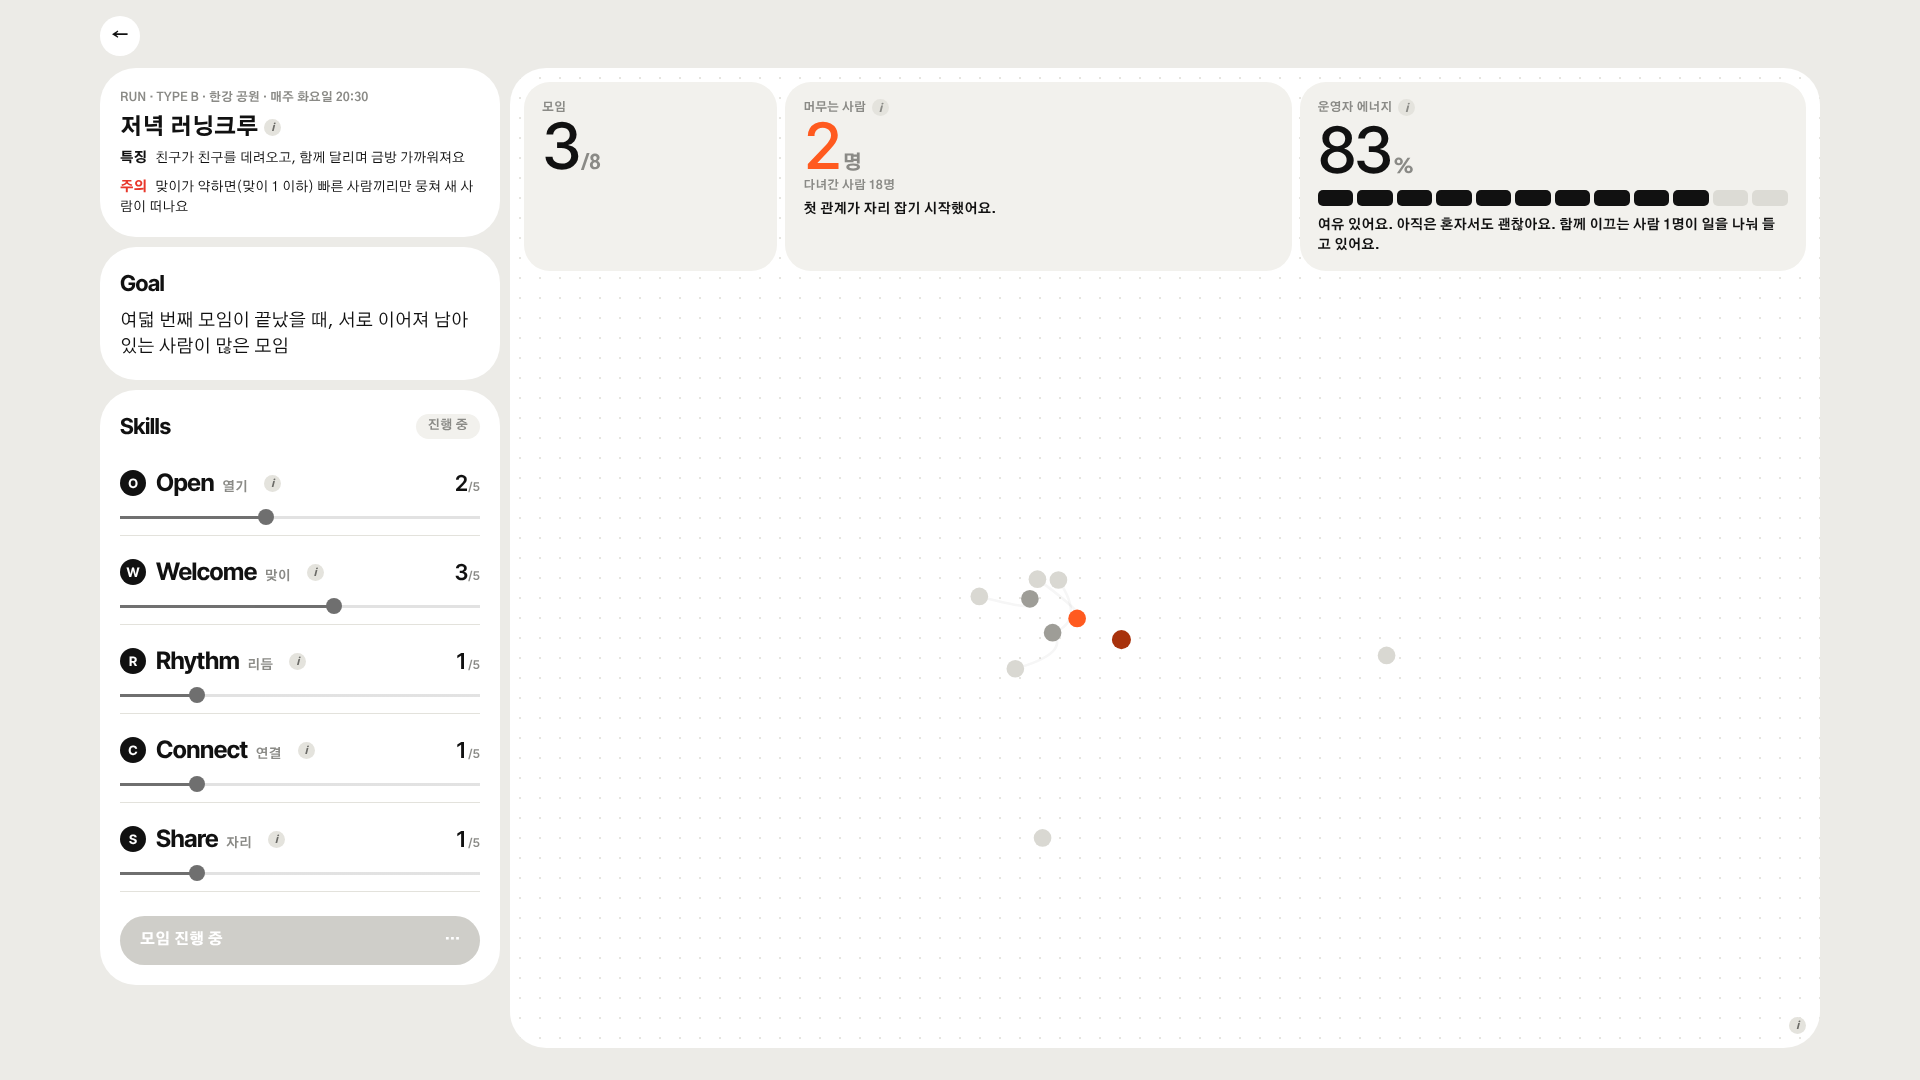
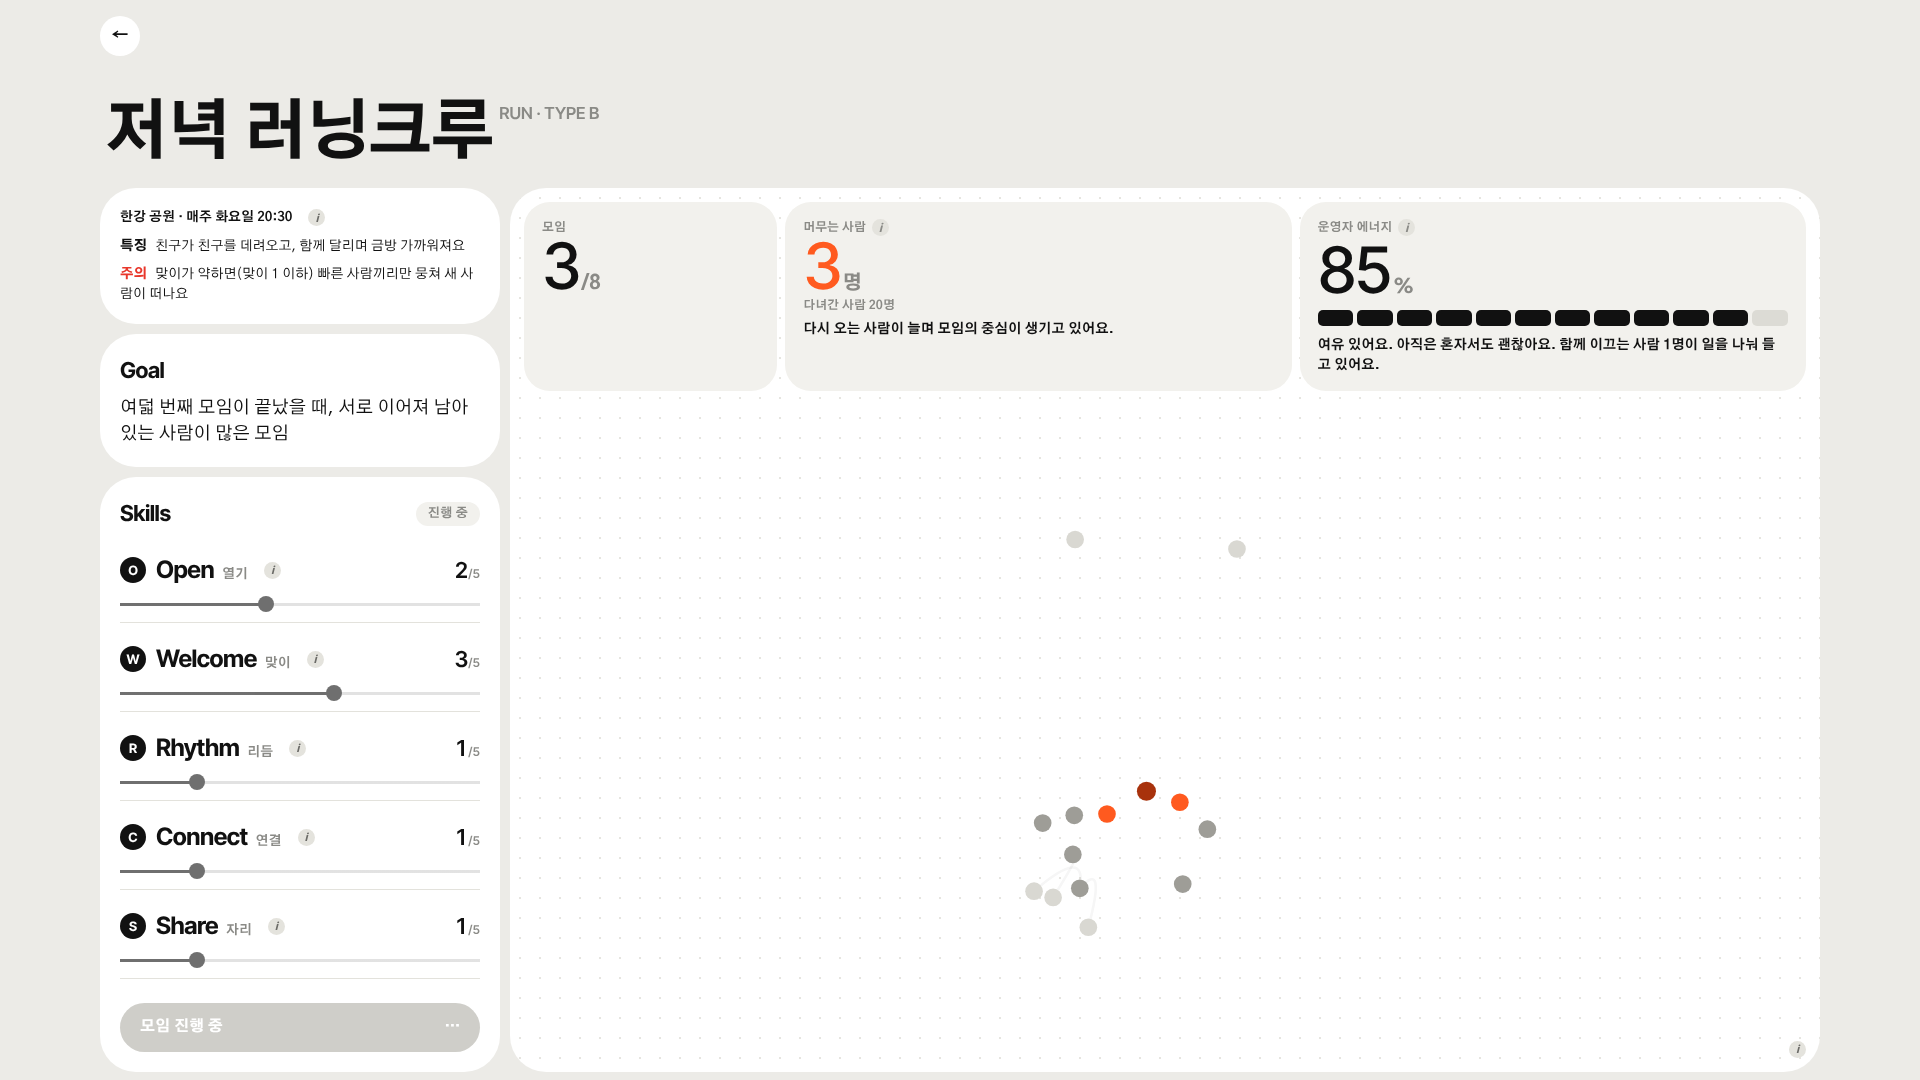
게임 v2.8 시안: 모임 고르기 제목 삭제, 모임 이름을 상자 밖 큰 제목으로
Claude-Session: https://claude.ai/code/session_01SaCvLutmawHZS3kxPWYxw7

diff --git a/thesis/game/moim.v07.src.html b/thesis/game/moim.v07.src.html
@@ -675,6 +675,12 @@ body{background:var(--page)}
 
 .goal-t{font-weight:500}
 .e-bar{background:transparent!important;padding:0 4px!important;box-shadow:none}
+
+.ptitle{font-size:clamp(40px,4.4vw,64px);margin:34px 4px 22px}
+.topnav + .entry,.topnav + .case3{margin-top:28px}
+.ptitle sup{white-space:nowrap}
+.pcard .cat{font-size:13px;color:var(--ink);font-weight:700}
+@media (min-width:900px){.canvas-wrap{min-height:calc(100vh - 200px)!important}}
 @media (prefers-reduced-motion:reduce){*{transition:none!important;animation:none!important}}
 </style>
 
@@ -1053,7 +1059,6 @@ function renderSelect(){
   screen='select';
   const now=new Date(),clock=`${pad(now.getHours())}:${pad(now.getMinutes())}`;
   app.innerHTML=`<nav class="topnav"><button class="back" id="back" aria-label="처음 화면으로">←</button></nav><section class="entry">
-    <div class="e-bar"><span class="e-logo"><h1 class="bigt">모임 고르기<sup>${TKEYS.length}</sup></h1></span><span class="e-mid">모임을 하나 고르세요. 같은 설계라도 모임마다 결과가 달라요.</span><span class="e-right"><small>Community Entry</small><span class="e-clock num">${clock}</span></span></div>
     <div class="e-cards">${TKEYS.map((k,i)=>{const v=TYPES[k];return `<button class="ecard" data-t="${k}" style="--c:${v.c};--tbg:${TPAL[k].bg};--tink:${TPAL[k].ink}" aria-label="${v.name} 시작">
       <div class="e-img">${typeArt(k)}</div>
       <div class="e-head"><span class="code">${v.code}</span><span class="ev">${info(`근거 ${v.ev}: 선행연구에서 뽑은 발견 번호예요.`)}</span><span class="sub">${v.name} · ${v.place} · ${v.when} ${v.time}</span></div>
@@ -1069,7 +1074,7 @@ function renderSelect(){
 function log(s){logLines.push(s);}
 function renderTool(){
   const T=TYPES[st.type];
-  app.innerHTML=`<nav class="topnav"><button class="back" id="quit" aria-label="처음 화면으로">←</button></nav><div class="tool" style="--accent:${TPAL[st.type].dark};--accent-ink:${TPAL[st.type].ink};--accent-bg:${TPAL[st.type].bg}">
+  app.innerHTML=`<nav class="topnav"><button class="back" id="quit" aria-label="처음 화면으로">←</button></nav><h1 class="bigt ptitle">${T.name}<sup>${T.code} · TYPE ${'ABC'[TKEYS.indexOf(st.type)]}</sup></h1><div class="tool" style="--accent:${TPAL[st.type].dark};--accent-ink:${TPAL[st.type].ink};--accent-bg:${TPAL[st.type].bg}">
     <div class="panel" id="panel"></div>
     <div class="canvas-wrap"><canvas id="cv" role="img" aria-label="모임 현장: 바깥에서 안쪽으로 처음 온 사람, 다시 온 사람, 자리 잡은 사람, 함께 이끄는 사람"></canvas>
       <div class="c-top"><span><span class="latin">${T.en}</span> · ${T.name} · <span id="mt"></span></span></div>
@@ -1128,8 +1133,7 @@ function renderPanel(){
   const e=Math.round(st.E);
   P.innerHTML=`
     <section class="pcard">
-      <div class="cat">${T.code} · TYPE ${'ABC'[TKEYS.indexOf(st.type)]} · ${T.place} · ${T.when} ${T.time}</div>
-      <h2 class="pname">${T.name}${info(`근거 ${T.ev}: 선행연구에서 뽑은 발견 번호예요.`)}</h2>
+      <div class="cat">${T.place} · ${T.when} ${T.time}${info(`근거 ${T.ev}: 선행연구에서 뽑은 발견 번호예요.`)}</div>
       <p class="trait"><b>특징</b>${T.plus}</p><p class="trait neg"><b>주의</b>${T.minus}</p>
     </section>
     <section class="pcard"><h3 class="eh">Goal</h3><p class="goal-t">여덟 번째 모임이 끝났을 때, 서로 이어져 남아 있는 사람이 많은 모임</p></section>

diff --git a/thesis/26-game-prototype.md b/thesis/26-game-prototype.md
@@ -184,3 +184,4 @@
 - v2.5: 스킬 설계 → Skills, 각 스킬은 영문 앞글자 검은 동그라미 + 굵은 영문 이름 + 작은 한글 이름, 굵은 선·가는 구분선 목록. Roles와 Rhythm의 앞글자가 겹쳐 자리의 영문명을 Share(나눠 맡기)로 바꿈 (연구자 확인 필요)
 - v2.6: Skills 아래 굵은 선 삭제, Share와 버튼 사이 여백, 뒤로 버튼을 상자 밖 맨 위로(모임 고르기·시뮬레이션·결과 모두), 왼쪽 첫 상자와 시뮬레이션 상자의 위쪽 맞춤, 목표는 Goal 상자로 분리, 첫 상자에는 모임 특성(장소·모임 일정 칸, 특징·주의)
 - v2.7: Goal 문장 보통 굵기, 모임 고르기 제목 상자 없앰(제목 글자만), 장소·모임 칸 없애고 분류 줄에 장소·일정
+- v2.8: 모임 고르기 제목 줄 전체 삭제, 시뮬레이션 화면은 모임 이름을 상자 밖 큰 제목(64px)으로 꺼내고 위첨자에 코드·타입, 뒤로 버튼과 제목 사이 여백 34px, 첫 상자는 장소·일정 + 특징·주의
